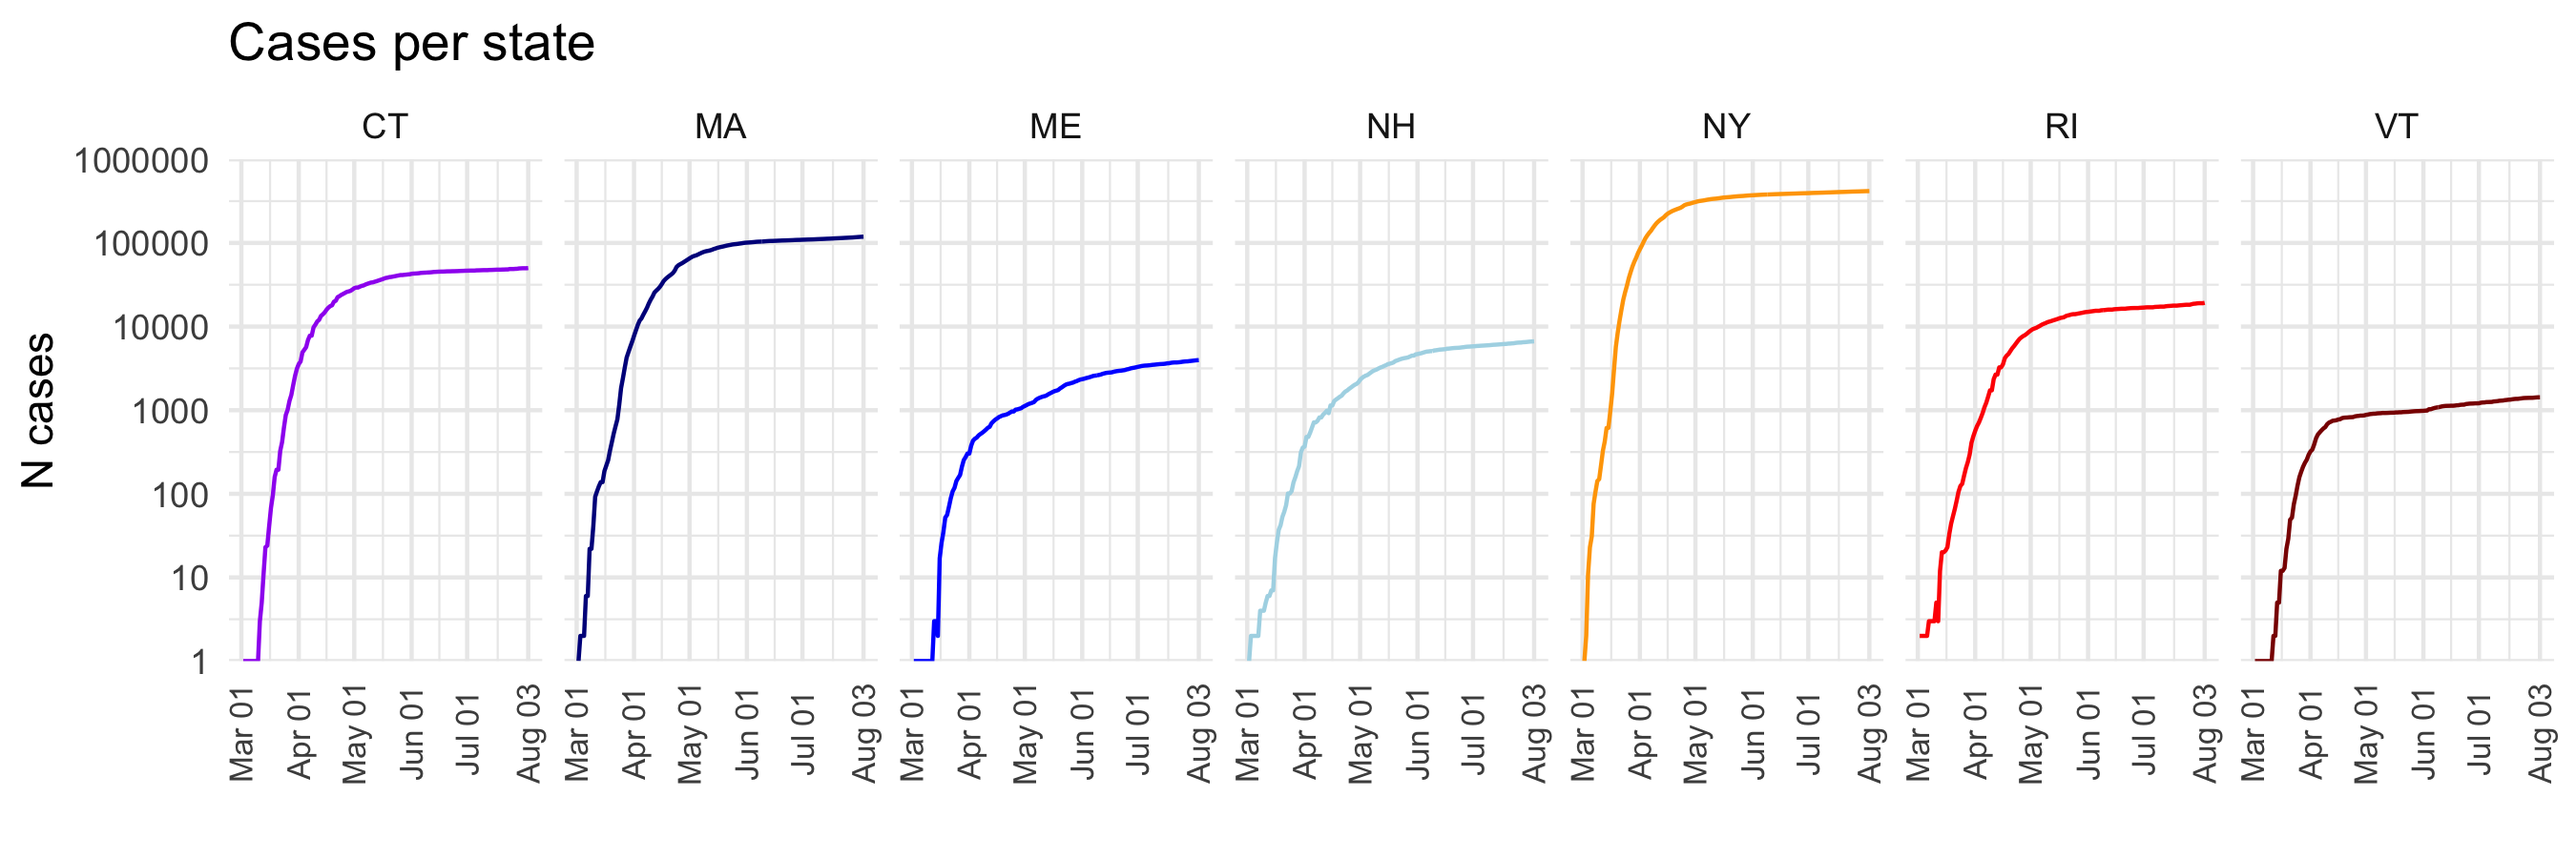
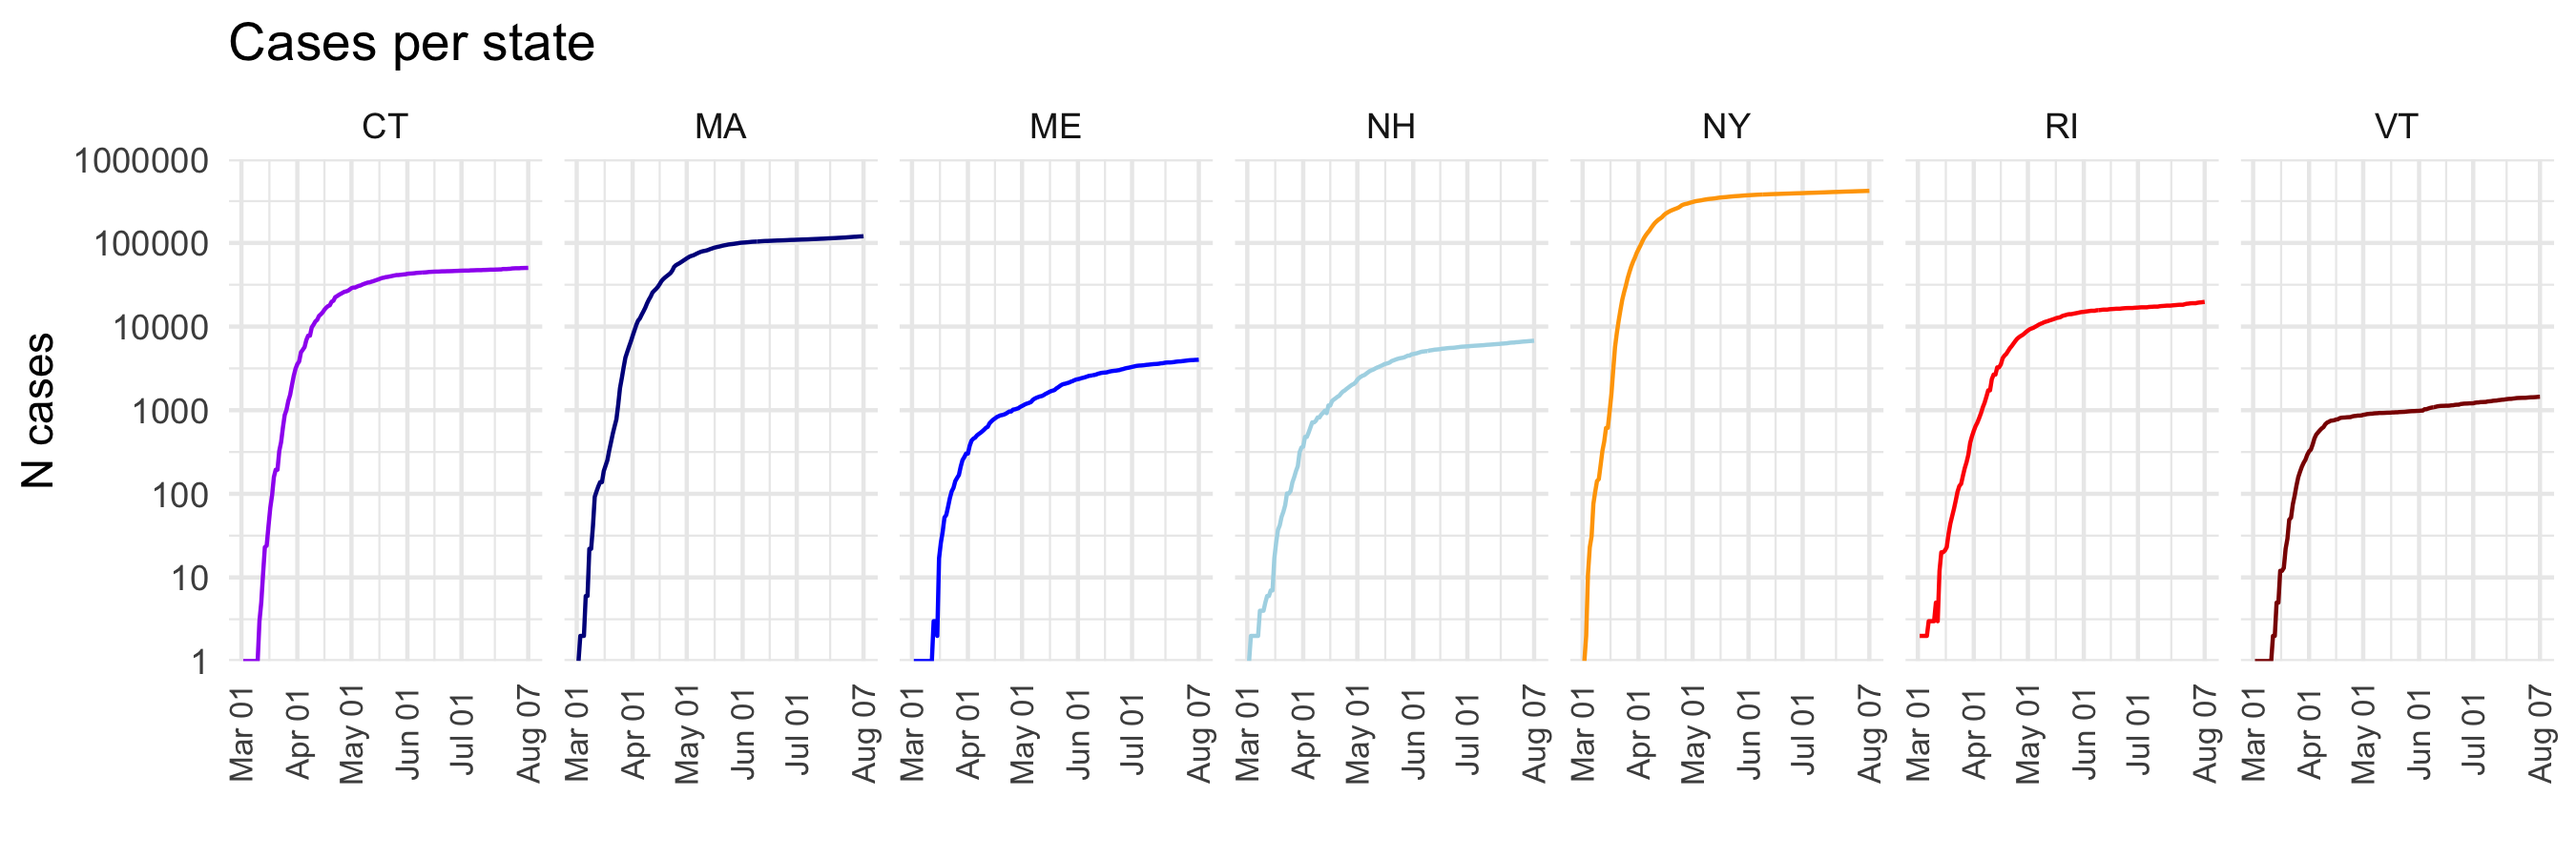
Package update on 2020-08-08 09:36:21

diff --git a/README.md b/README.md
@@ -12,7 +12,7 @@ around a focal point, in this case Worcester, MA, the home of Clark
 University. It also tries to show county-level detail available in state
 datasets.
 
-**Last update**: 2020-08-04 09:00:30
+**Last update**: 2020-08-08 09:36:17
 <img src="vignettes/figures/caserate_map.png" width="95%" style="display: block; margin: auto;" /><img src="vignettes/figures/case_map.png" width="95%" style="display: block; margin: auto;" /><img src="vignettes/figures/statecases_daily.png" width="95%" style="display: block; margin: auto;" /><img src="vignettes/figures/statecases_cumulative.png" width="95%" style="display: block; margin: auto;" /><img src="vignettes/figures/statedeaths_daily.png" width="95%" style="display: block; margin: auto;" /><img src="vignettes/figures/statedeaths_cumulative.png" width="95%" style="display: block; margin: auto;" />
 
 ## Notes
